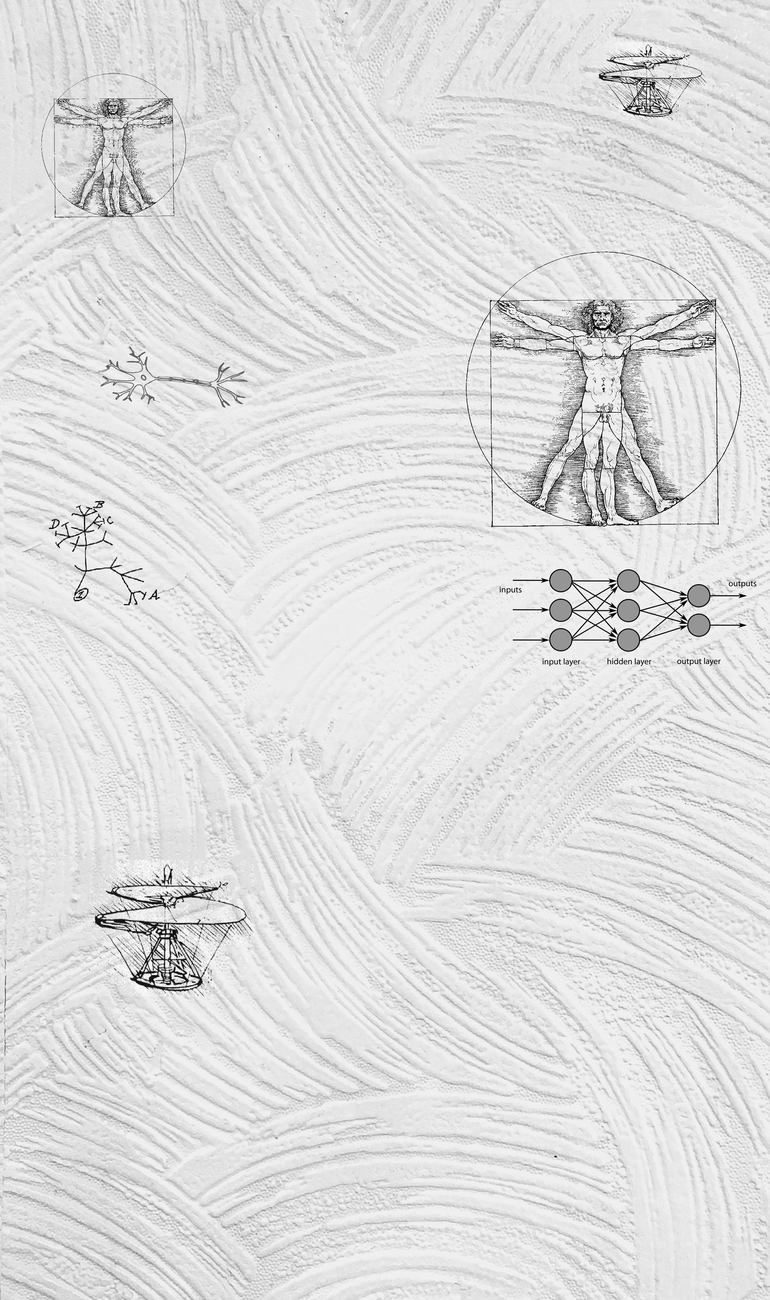
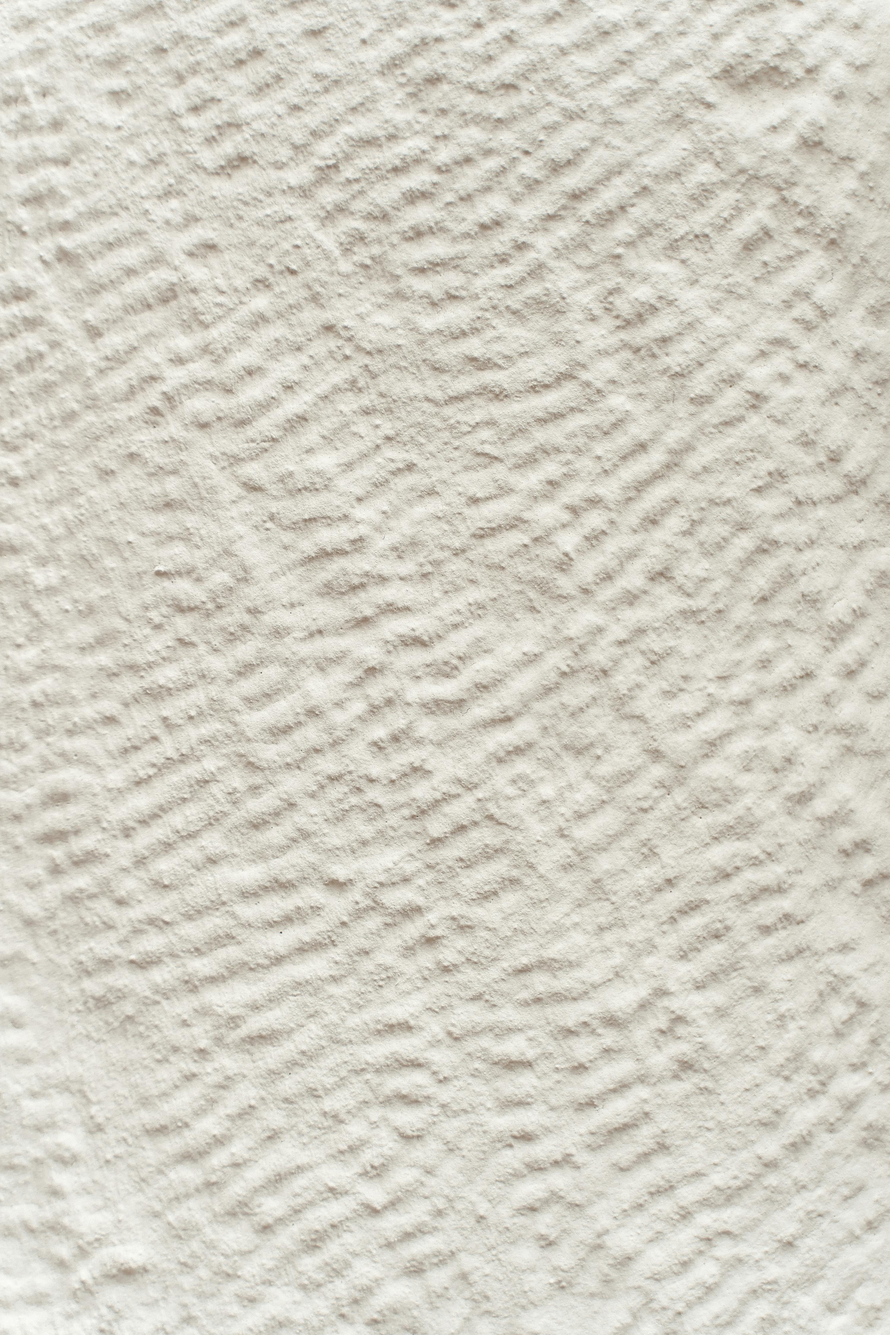
more color updates and backgrounds

diff --git a/index.html b/index.html
@@ -201,9 +201,10 @@
 
 <script>
     // List of images stored in the 'img' folder
-    const images = ['img/background5.jpg','img/background5.jpg','img/background5.jpg', 'img/background4.jpg', 'img/gpt2.jpg', 'img/gpt1.jpg']; 
-	const randomImage = images[Math.floor(Math.random() * images.length)];
-	document.body.style.backgroundImage = `url("${randomImage}")`;
+    const images = ['img/background5.jpg', 'img/background4.jpg', 'img/gpt2.jpg', 'img/gpt1.jpg', 'img/background6.jpg', 'img/background7.jpg', 'img/background.jpg']; 
+    let randomImage = images[Math.floor(Math.random() * images.length)];
+    document.body.style.backgroundImage = `url("${randomImage}")`;
+
     function showPanel(panelId) {
         const panels = document.querySelectorAll('.content-panel');
         panels.forEach(panel => {
@@ -212,18 +213,12 @@
 
         document.getElementById(panelId).style.display = 'block';
 
-        // Change the background image based on the panel clicked
-        //if (panelId === 'demos') {
-        //    document.body.style.backgroundImage = 'url("img/background6.jpg")';
-        //} else {
-            
-            document.body.style.backgroundImage = `url("${randomImage}")`;
-        }
-
+        
         // Update the document title
         document.title = document.querySelector(`a[onclick="showPanel('${panelId}')"]`).textContent + ' - Hector O\'Franco';
     }
 </script>
+
 
 </body>
 </html>

diff --git a/styles.css b/styles.css
@@ -3,7 +3,7 @@ body {
     line-height: 1.6;
     margin: 0;
     padding: 0;
-    background: url('img/gpt1.jpg') repeat;
+    background: url('img/background7.jpg') repeat;
     background-size: cover;
     color: #333;
 

diff --git a/img/whiter.py b/img/whiter.py
@@ -1,0 +1,50 @@
+from PIL import Image
+
+def lighten_and_partially_grayscale_image(image_path, output_path, lighten_percent=20, grayscale_percent=50):
+    # Open the image
+    img = Image.open(image_path)
+    
+    # Determine if original image has transparency by checking its mode
+    has_transparency = img.mode in ('RGBA', 'LA')
+
+    # Convert image to RGBA to preserve transparency during processing
+    img = img.convert('RGBA')
+
+    # Calculate the amount to lighten each color component
+    lighten_amount = (255 * lighten_percent) // 100
+    grayscale_factor = grayscale_percent / 100
+
+    # Process the image to lighten colors and apply partial grayscale
+    pixels = img.load()
+    for i in range(img.width):
+        for j in range(img.height):
+            r, g, b, a = pixels[i, j]
+            # Lighten the color
+            lightened_r = min(255, r + lighten_amount)
+            lightened_g = min(255, g + lighten_amount)
+            lightened_b = min(255, b + lighten_amount)
+            # Convert to grayscale
+            grayscale = int(0.299 * lightened_r + 0.587 * lightened_g + 0.114 * lightened_b)
+            # Blend the grayscale and color
+            final_r = int(lightened_r * (1 - grayscale_factor) + grayscale * grayscale_factor)
+            final_g = int(lightened_g * (1 - grayscale_factor) + grayscale * grayscale_factor)
+            final_b = int(lightened_b * (1 - grayscale_factor) + grayscale * grayscale_factor)
+            # Update the pixel
+            pixels[i, j] = (final_r, final_g, final_b, a)
+
+    # Determine the output format based on the output path
+    output_format = output_path.split('.')[-1].upper()
+
+    # If saving as JPG, remove the alpha channel as JPG does not support transparency
+    if output_format == 'JPG' or output_format == 'JPEG':
+        img = img.convert('RGB')  # Convert to RGB to discard the alpha channel
+
+    # Save the modified image
+    img.save(output_path)
+
+# Hardcoded image path
+image_path = 'background2.jpg'  # Use an appropriate file
+output_path = 'background2a.jpg'  # Save as either PNG or JPG
+
+# Call the function with a lightening of 20% and 50% grayscale effect
+lighten_and_partially_grayscale_image(image_path, output_path, lighten_percent=40, grayscale_percent=80)
